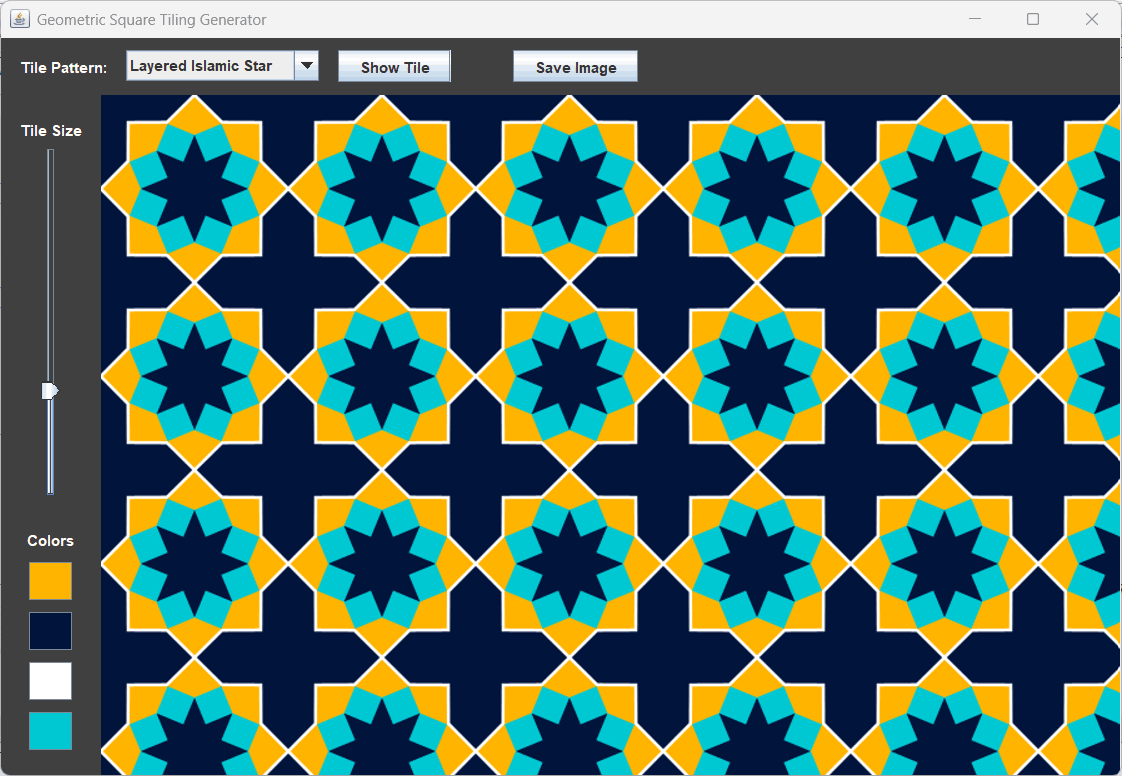
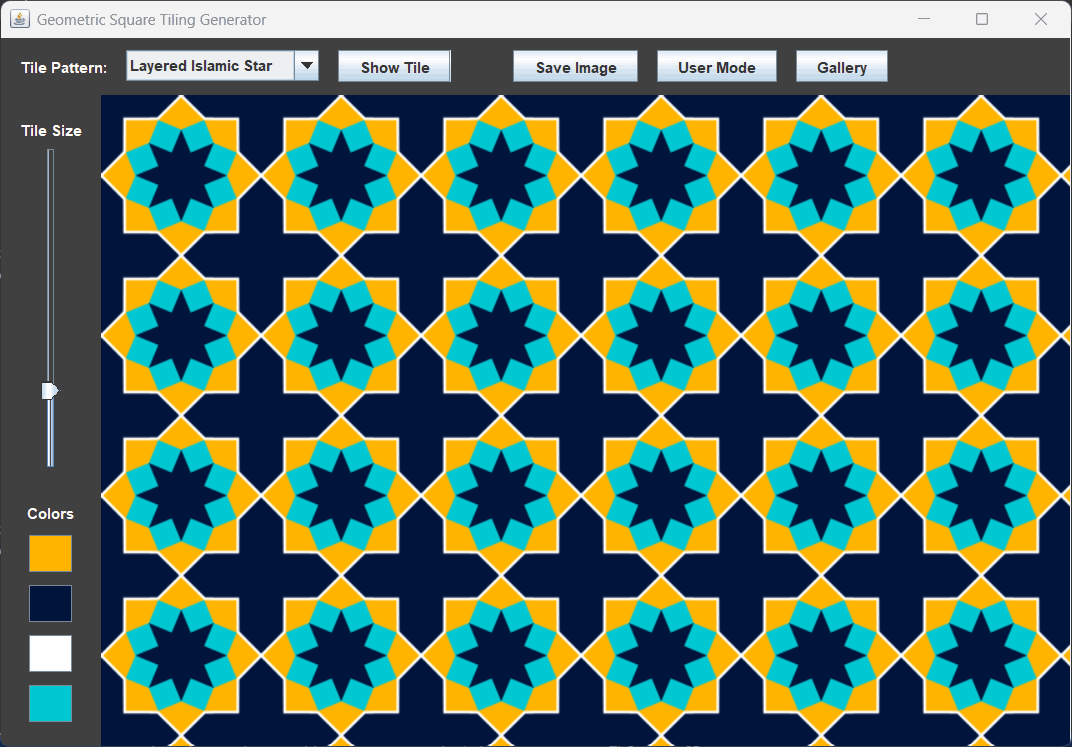
added gallery button

diff --git a/src/SquareTiling.java b/src/SquareTiling.java
@@ -83,9 +83,12 @@ public class SquareTiling extends JFrame {
     private final JButton backBtn;
     private final JButton deleteBtn;
     private final JButton userBtn;
+    private final JButton helpBtn;
+    private final JButton galleryBtn;
     private final JComboBox<Color> colorComboBox;
+    private final JLabel sizeLabel;
+    private final JSlider sizeSlider;
 
-    private boolean isUserMode;
     private boolean isFillMode = false;
 
     // User Drawing Data
@@ -100,7 +103,6 @@ public class SquareTiling extends JFrame {
         setLocationRelativeTo(null);
 
         tilingPanel = new TilingPanel();
-        isUserMode = currentType == TileType.USER_MODE;
 
         JPanel topPanel = new JPanel();
         topPanel.setBackground(Color.DARK_GRAY);
@@ -120,8 +122,7 @@ public class SquareTiling extends JFrame {
         typeCombo.addActionListener(e -> {
             currentType = (TileType) typeCombo.getSelectedItem();
             tilingPanel.clearCache();
-            isUserMode = currentType == TileType.USER_MODE;
-            updateButtonVisibility();
+            updateUILayout();
             repaint();
         });
 
@@ -130,6 +131,9 @@ public class SquareTiling extends JFrame {
 
         JButton saveBtn = new JButton("Save Image");
         saveBtn.addActionListener(e -> saveImage());
+
+        galleryBtn = new JButton("Gallery");
+        galleryBtn.addActionListener(e -> showGallery(typeCombo));
 
         addControl(topPanel, "Tile Pattern:", typeCombo);
         topPanel.add(showTileBtn);
@@ -160,6 +164,15 @@ public class SquareTiling extends JFrame {
         });
         userBtn = new JButton("User Mode");
         userBtn.addActionListener(e -> typeCombo.setSelectedItem(TileType.USER_MODE));
+        helpBtn = new JButton("?");
+        helpBtn.addActionListener(e -> {
+            JOptionPane.showMessageDialog(
+                SquareTiling.this,
+                "Use mouse to draw lines and fill area.\nSelect mode by clicking either the line icon or the filler icon.\nIn line mode, left click and move mouse, a ghost line is shown, release button.\nIn filler mode, left click and release.\nFiller color can be changed in the selection list.\nUndo drawings by clicking back icon.\nClear drawing area by clicking X icon.",
+                "Help",
+                JOptionPane.INFORMATION_MESSAGE
+            );
+        });
 
         Color[] colors = {colorA, colorB, colorC, colorD};
         colorComboBox = new JComboBox<>(colors);
@@ -177,9 +190,9 @@ public class SquareTiling extends JFrame {
         topPanel.add(backBtn);
         topPanel.add(deleteBtn);
         topPanel.add(colorComboBox);
+        topPanel.add(helpBtn);
         topPanel.add(userBtn);
-
-        updateButtonVisibility();
+        topPanel.add(galleryBtn);
 
         JPanel sidebar = new JPanel();
         sidebar.setBackground(Color.DARK_GRAY);
@@ -187,11 +200,11 @@ public class SquareTiling extends JFrame {
         sidebar.setLayout(new BoxLayout(sidebar, BoxLayout.Y_AXIS));
         sidebar.setBorder(new EmptyBorder(20, 10, 10, 10));
 
-        JLabel sizeLabel = new JLabel("Tile Size");
+        sizeLabel = new JLabel("Tile Size");
         sizeLabel.setForeground(Color.WHITE);
         sizeLabel.setAlignmentX(Component.CENTER_ALIGNMENT);
 
-        JSlider sizeSlider = new JSlider(JSlider.VERTICAL, 40, 400, 150);
+        sizeSlider = new JSlider(JSlider.VERTICAL, 40, 400, 150);
         sizeSlider.setBackground(Color.DARK_GRAY);
         sizeSlider.setAlignmentX(Component.CENTER_ALIGNMENT);
         sizeSlider.addChangeListener(e -> {
@@ -221,19 +234,27 @@ public class SquareTiling extends JFrame {
             sidebar.add(Box.createRigidArea(new Dimension(0, 10)));
         }
 
+        updateUILayout();
+
         add(topPanel, BorderLayout.NORTH);
         add(sidebar, BorderLayout.WEST);
         add(tilingPanel, BorderLayout.CENTER);
     }
 
-    private void updateButtonVisibility() {
-        boolean visible = (currentType == TileType.USER_MODE);
-        lineBtn.setVisible(visible);
-        fillBtn.setVisible(visible);
-        backBtn.setVisible(visible);
-        deleteBtn.setVisible(visible);
-        colorComboBox.setVisible(visible);
-        userBtn.setVisible(!visible);
+    private void updateUILayout() {
+        boolean isUserMode = (currentType == TileType.USER_MODE);
+        if (isUserMode)//resize not allowed in user mode
+            sizeSlider.setValue(150);
+        lineBtn.setVisible(isUserMode);
+        fillBtn.setVisible(isUserMode);
+        backBtn.setVisible(isUserMode);
+        deleteBtn.setVisible(isUserMode);
+        colorComboBox.setVisible(isUserMode);
+        helpBtn.setVisible(isUserMode);
+        galleryBtn.setVisible(!isUserMode);
+        userBtn.setVisible(!isUserMode);
+        sizeLabel.setEnabled(!isUserMode);
+        sizeSlider.setEnabled(!isUserMode);
         lineBtn.getParent().revalidate();
     }
 
@@ -242,6 +263,64 @@ public class SquareTiling extends JFrame {
         button.setPreferredSize(new Dimension(30, 30));
         button.addActionListener(l);
         return button;
+    }
+
+    private void showGallery(JComboBox<TileType> typeCombo) {
+        JDialog galleryDialog = new JDialog(this, "Tile Gallery", true);
+        galleryDialog.setUndecorated(false);
+        galleryDialog.setSize(tileSize * 3 + 100, tileSize * 2 + 100);
+        galleryDialog.setLocationRelativeTo(this);
+
+        JPanel gridPanel = new JPanel(new GridLayout(0, 3, 10, 10));
+        gridPanel.setBackground(Color.DARK_GRAY);
+        gridPanel.setBorder(new EmptyBorder(20, 20, 20, 20));
+
+        for (TileType type : TileType.values()) {
+            if (type == TileType.USER_MODE && actionHistory.isEmpty()) continue;
+
+            JPanel tilePreview = new JPanel() {
+                @Override
+                protected void paintComponent(Graphics g) {
+                    super.paintComponent(g);
+                    Graphics2D g2d = (Graphics2D) g;
+                    g2d.setRenderingHint(RenderingHints.KEY_ANTIALIASING, RenderingHints.VALUE_ANTIALIAS_ON);
+
+                    int size = Math.min(getWidth(), getHeight());
+
+                    drawTile(type, g2d, 0, 0, size);
+
+                    g2d.setColor(Color.GREEN);
+                    g2d.drawString(type.title, 10, 20);
+                }
+            };
+            tilePreview.addMouseListener(new MouseAdapter() {
+                @Override
+                public void mouseClicked(MouseEvent me) {
+                    if (SwingUtilities.isLeftMouseButton(me)) {
+                        currentType = type;
+                        typeCombo.setSelectedItem(type);
+                        tilingPanel.clearCache();
+
+                        updateUILayout();
+                        repaint();
+
+                        galleryDialog.dispose();
+                    }
+                }
+
+                @Override
+                public void mouseEntered(MouseEvent me) {}
+
+                @Override
+                public void mouseExited(MouseEvent me) {}
+            });
+            tilePreview.setPreferredSize(new Dimension(tileSize, tileSize));
+            tilePreview.setBackground(Color.DARK_GRAY);
+            gridPanel.add(tilePreview);
+        }
+
+        galleryDialog.add(new JScrollPane(gridPanel));
+        galleryDialog.setVisible(true);
     }
 
     class TilingPanel extends JPanel {
@@ -253,21 +332,21 @@ public class SquareTiling extends JFrame {
             MouseAdapter ma = new MouseAdapter() {
                 @Override
                 public void mousePressed(MouseEvent e) {
-                    if (!isUserMode || !SwingUtilities.isLeftMouseButton(e)) return;
+                    if (currentType != TileType.USER_MODE || !SwingUtilities.isLeftMouseButton(e)) return;
                     Point p = new Point(e.getX() % tileSize, e.getY() % tileSize);
                     if (isFillMode) performFill(p);
                     else { dragStart = p; currentEndPoint = p; }
                 }
                 @Override
                 public void mouseDragged(MouseEvent e) {
-                    if (isUserMode && !isFillMode && dragStart != null) {
+                    if (currentType == TileType.USER_MODE && !isFillMode && dragStart != null) {
                         currentEndPoint = new Point(e.getX() % tileSize, e.getY() % tileSize);
                         repaint();
                     }
                 }
                 @Override
                 public void mouseReleased(MouseEvent e) {
-                    if (isUserMode && !isFillMode && dragStart != null) {
+                    if (currentType == TileType.USER_MODE && !isFillMode && dragStart != null) {
                         Point p = new Point(e.getX() % tileSize, e.getY() % tileSize);
                         if (p.distance(dragStart) > 2) {
                             actionHistory.add(new LineAction(dragStart, p, colorB));
@@ -306,7 +385,7 @@ public class SquareTiling extends JFrame {
             Graphics2D g2d = cachedTile.createGraphics();
             g2d.setRenderingHint(RenderingHints.KEY_ANTIALIASING, RenderingHints.VALUE_ANTIALIAS_ON);
             g2d.setRenderingHint(RenderingHints.KEY_STROKE_CONTROL, RenderingHints.VALUE_STROKE_PURE);
-            drawTile(g2d, 0, 0, tileSize);
+            drawTile(currentType, g2d, 0, 0, tileSize);
             g2d.dispose();
 
             tilingPaint = new TexturePaint(cachedTile, new Rectangle2D.Double(0, 0, tileSize, tileSize));
@@ -325,7 +404,7 @@ public class SquareTiling extends JFrame {
             g2d.setPaint(tilingPaint);
             g2d.fillRect(0, 0, getWidth(), getHeight());
 
-            if (isUserMode && !isFillMode && dragStart != null && currentEndPoint != null) {
+            if (currentType == TileType.USER_MODE && !isFillMode && dragStart != null && currentEndPoint != null) {
                 g2d.setColor(colorB);
                 g2d.setStroke(new BasicStroke(2f));
                 // Show the ghost line on all tiles simultaneously
@@ -362,8 +441,8 @@ public class SquareTiling extends JFrame {
         }
     }
 
-    private void drawTile(Graphics2D g2d, int x, int y, int size) {
-        switch (currentType) {
+    private void drawTile(TileType tile, Graphics2D g2d, int x, int y, int size) {
+        switch (tile) {
             case USER_MODE: drawUserTile(g2d, x, y, size); break;
             case GREEK: drawGreekTile(g2d, x, y, size); break;
             case IPATTERN1: drawIslamicStarTile1(g2d, x, y, size); break;
@@ -397,7 +476,7 @@ public class SquareTiling extends JFrame {
 
     private void drawGreekTile(Graphics2D g2d, int x, int y, int size) {
         g2d.setColor(colorC);
-        g2d.fillRect(x, y, x + size, y + size);
+        g2d.fillRect(x, y, size, size);
 
         double step = size / 8.0;
         double[][] path = {{0,1}, {1,1}, {1,7}, {6,7}, {6,4}, {5,4}, {5,6}, {2,6}, {2,1}, {8,1}, {8,2}, {3,2}, {3,5}, {4,5}, {4,3}, {7,3}, {7,8}, {0,8}};
@@ -426,7 +505,7 @@ public class SquareTiling extends JFrame {
     private void drawIslamicStarTile2(Graphics2D g2d, int x, int y, int size) {
         double cx = x + size / 2.0; double cy = y + size / 2.0;
         g2d.setColor(colorD);
-        g2d.fillRect(x, y, x + size, y + size);
+        g2d.fillRect(x, y, size, size);
 
         Path2D star = createStar(cx, cy, size * 0.27, size * 0.5, 8, 0);
         g2d.setColor(colorB); g2d.fill(star);
@@ -445,7 +524,7 @@ public class SquareTiling extends JFrame {
 
     private void drawIslamicStarTile3(Graphics2D g2d, int x, int y, int size) {
         g2d.setColor(colorB);
-        g2d.fillRect(x, y, x + size, y + size);
+        g2d.fillRect(x, y, size, size);
 
         double cx = x + size / 2.0; double cy = y + size / 2.0;
         float strokeSize = Math.max(1.5f, size / 80f); g2d.setStroke(new BasicStroke(strokeSize));
@@ -465,7 +544,7 @@ public class SquareTiling extends JFrame {
 
     private void drawCrossedTile(Graphics2D g2d, int x, int y, int size) {
         g2d.setColor(colorB);
-        g2d.fillRect(x, y, x + size, y + size);
+        g2d.fillRect(x, y, size, size);
 
         g2d.setStroke(new BasicStroke(Math.max(1, size / 30f)));
         g2d.setColor(colorA); g2d.drawLine(x, y, x + size, y + size); g2d.drawLine(x + size, y, x, y + size);
@@ -474,7 +553,7 @@ public class SquareTiling extends JFrame {
 
     private void drawInterlacedTile(Graphics2D g2d, int x, int y, int size) {
         g2d.setColor(colorB);
-        g2d.fillRect(x, y, x + size, y + size);
+        g2d.fillRect(x, y, size, size);
 
         g2d.setStroke(new BasicStroke(Math.max(1, size / 40f)));
         g2d.setColor(colorA); int r = size / 2;
@@ -485,7 +564,7 @@ public class SquareTiling extends JFrame {
 
     private void drawOctagramTile(Graphics2D g2d, int x, int y, double factor, int size) {
         g2d.setColor(colorB);
-        g2d.fillRect(x, y, x + size, y + size);
+        g2d.fillRect(x, y, size, size);
 
         double cx = x + size / 2.0; double cy = y + size / 2.0;
         Path2D star = createStar(cx, cy, size * factor, size * 0.5, 8, 0);
@@ -496,7 +575,7 @@ public class SquareTiling extends JFrame {
 
     private void drawOctagonTile(Graphics2D g2d, int x, int y, int size) {
         g2d.setColor(colorB);
-        g2d.fillRect(x, y, x + size, y + size);
+        g2d.fillRect(x, y, size, size);
 
         double cx = x + size / 2.0; double cy = y + size / 2.0;
         double d = 1.0 / (3.0 + Math.sqrt(2));
@@ -518,13 +597,13 @@ public class SquareTiling extends JFrame {
         for (int i = 0; i < 2; i++)
             for (int j = 0; j < 2; j++) {
                 g2d.setColor(i == j ? colorB : colorC);
-                g2d.fillRect(x + half * i, y + half * j, x + half + half * i, y + half + half * j);
+                g2d.fillRect(x + half * i, y + half * j, half, half);
             }
     }
 
     private void drawTartanTile(Graphics2D g2d, int x, int y, int size) {
         g2d.setColor(colorD);
-        g2d.fillRect(x, y, x + size, y + size);
+        g2d.fillRect(x, y, size, size);
 
         Color semiTransparentColorB = new Color(colorB.getRed(), colorB.getGreen(), colorB.getBlue(), 128);
 
@@ -542,7 +621,7 @@ public class SquareTiling extends JFrame {
 
     private void drawInterlockingTile(Graphics2D g2d, int x, int y, int size) {
         g2d.setColor(colorC);
-        g2d.fillRect(x, y, x + size, y + size);
+        g2d.fillRect(x, y, size, size);
 
         int stroke = size / 16;
         int stroke2 = stroke * 2;
@@ -607,7 +686,7 @@ public class SquareTiling extends JFrame {
 
     private void drawSquaresTile(Graphics2D g2d, int x, int y, int size) {
         g2d.setColor(colorB);
-        g2d.fillRect(x, y, x + size, y + size);
+        g2d.fillRect(x, y, size, size);
 
         double cx = x + size / 2.0; double cy = y + size / 2.0;
 
@@ -695,7 +774,7 @@ public class SquareTiling extends JFrame {
                 g2d.setColor(colorB);
                 g2d.fillRect(0, 0, getWidth(), getHeight());
                 int size = Math.min(getWidth(), getHeight());
-                drawTile(g2d, (getWidth() - size) / 2, (getHeight() - size) / 2, size);
+                drawTile(currentType, g2d, (getWidth() - size) / 2, (getHeight() - size) / 2, size);
             }
         };
         dialog.add(previewPanel);
